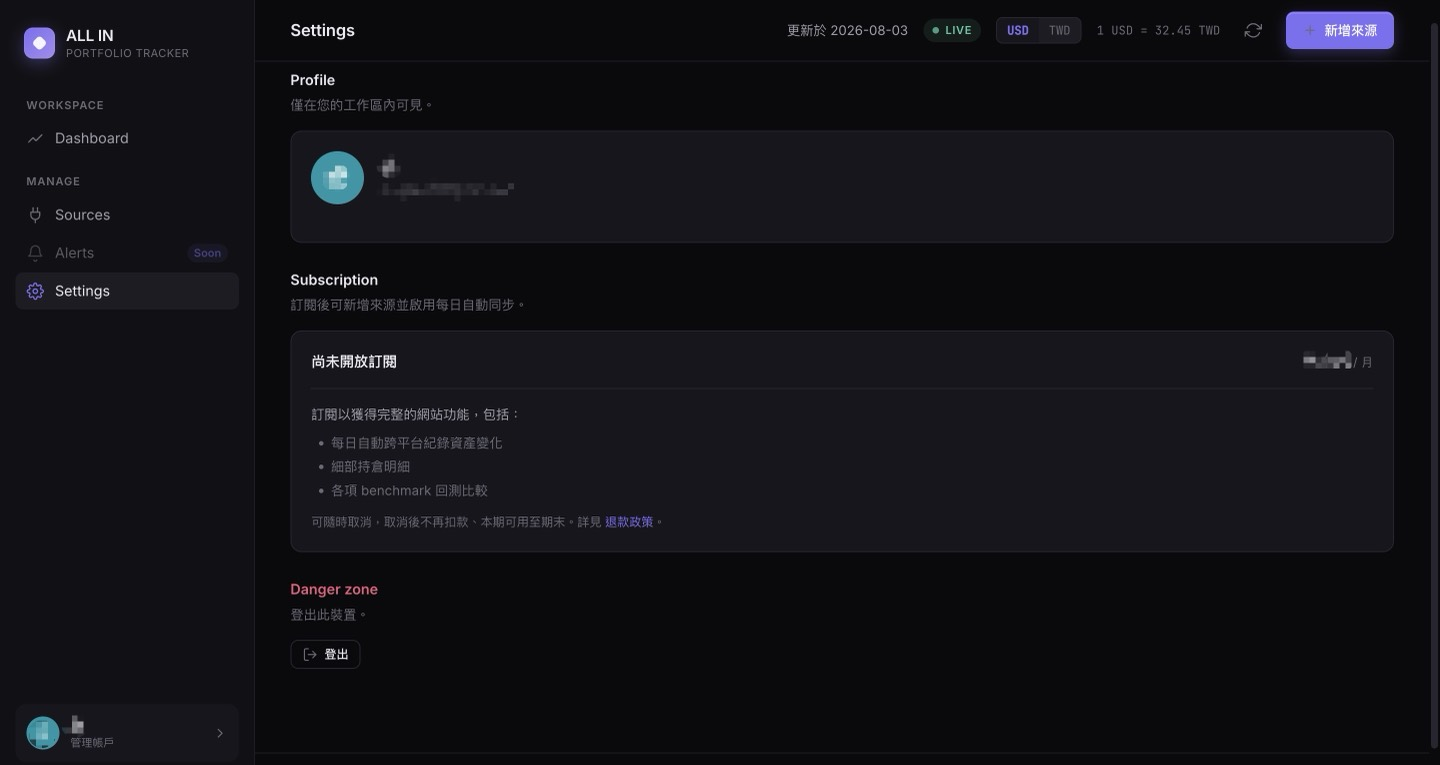
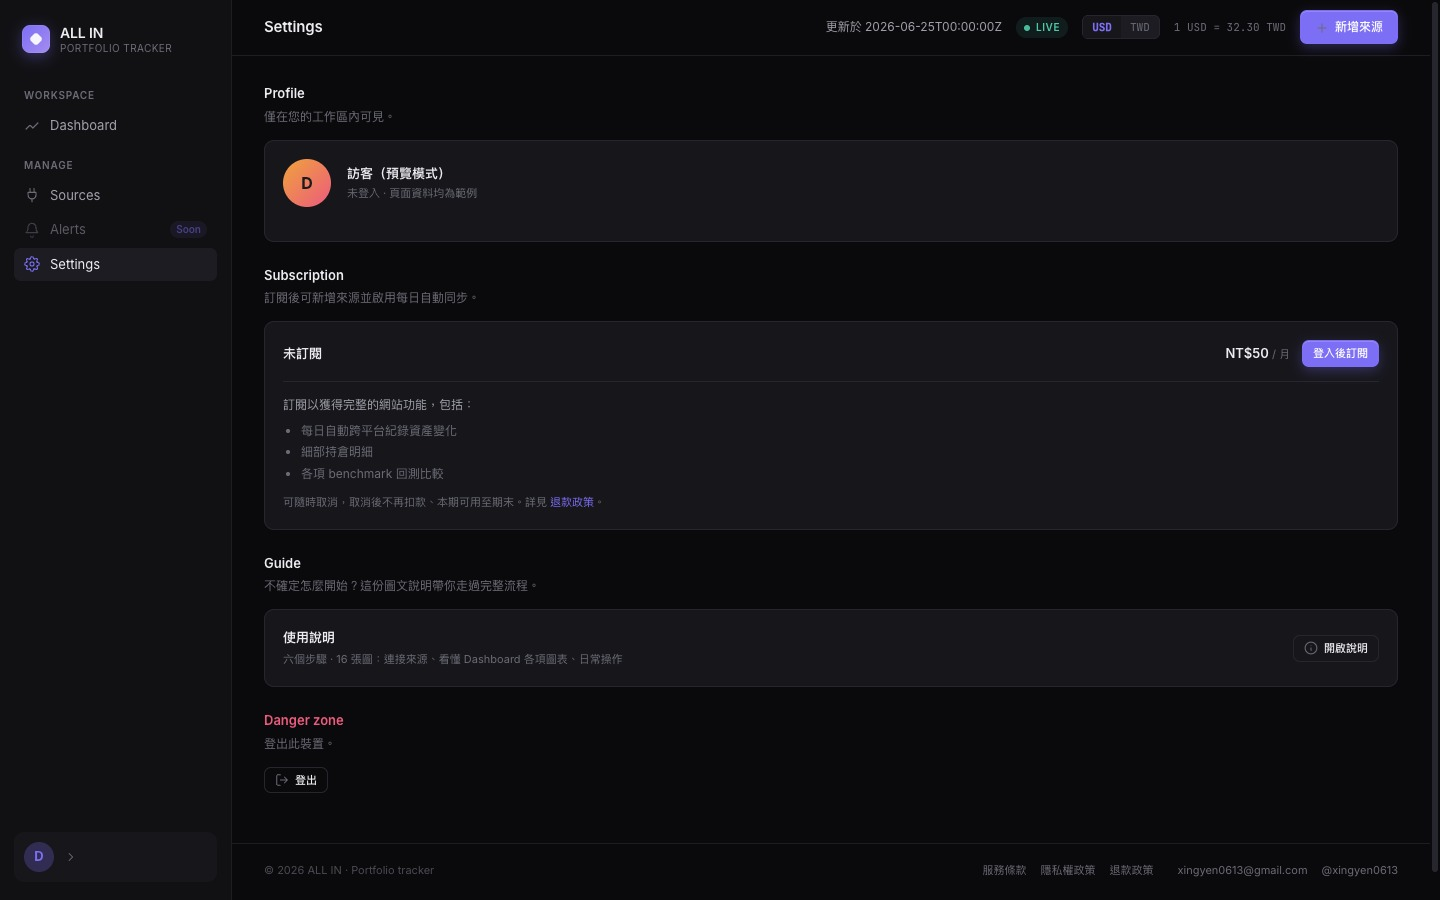
fix(guide): 含真實資產的截圖改用預覽模式假資料重截
/guide 從 Settings 的 modal 抽成免登入公開頁後，原本只有登入者看得到的
主帳號截圖也跟著公開了（step-06 上有總資產金額、各類別餘額與 Sharpe）。

重截 9 張：
- 6–12 Dashboard 各區塊，真實金額與持倉全部換成 demo 假資料
- 14 Sources 頁，原本露出 10 個實際連接的平台，改為 demo 的 4 個
- 16 Settings，順便修正「尚未開放訂閱」的過時畫面

保留 7 張：1、2（空帳戶）、3、4、5、15（純 modal）、13（僅 topbar），
這些本來就不含任何資產資料。

圖 12 的說明改為「展開後依分類列出每一筆持倉」——demo 資料沒有現金與
期貨部位，原本的「現股、現金與期貨分段呈現」對不上畫面。

diff --git a/frontend/src/components/GuideContent.tsx b/frontend/src/components/GuideContent.tsx
@@ -110,7 +110,7 @@ const STEPS: Step[] = [
         desc: '依各來源整理最詳細的持倉明細，不只有股票與幣種，現金與期貨／合約部位也一併列出。',
         items: [
           { src: IMG(11), caption: '圖 11 — 點擊任一來源可展開明細' },
-          { src: IMG(12), caption: '圖 12 — 現股、現金與期貨分段呈現' },
+          { src: IMG(12), caption: '圖 12 — 展開後依分類列出每一筆持倉' },
         ],
       },
     ],
